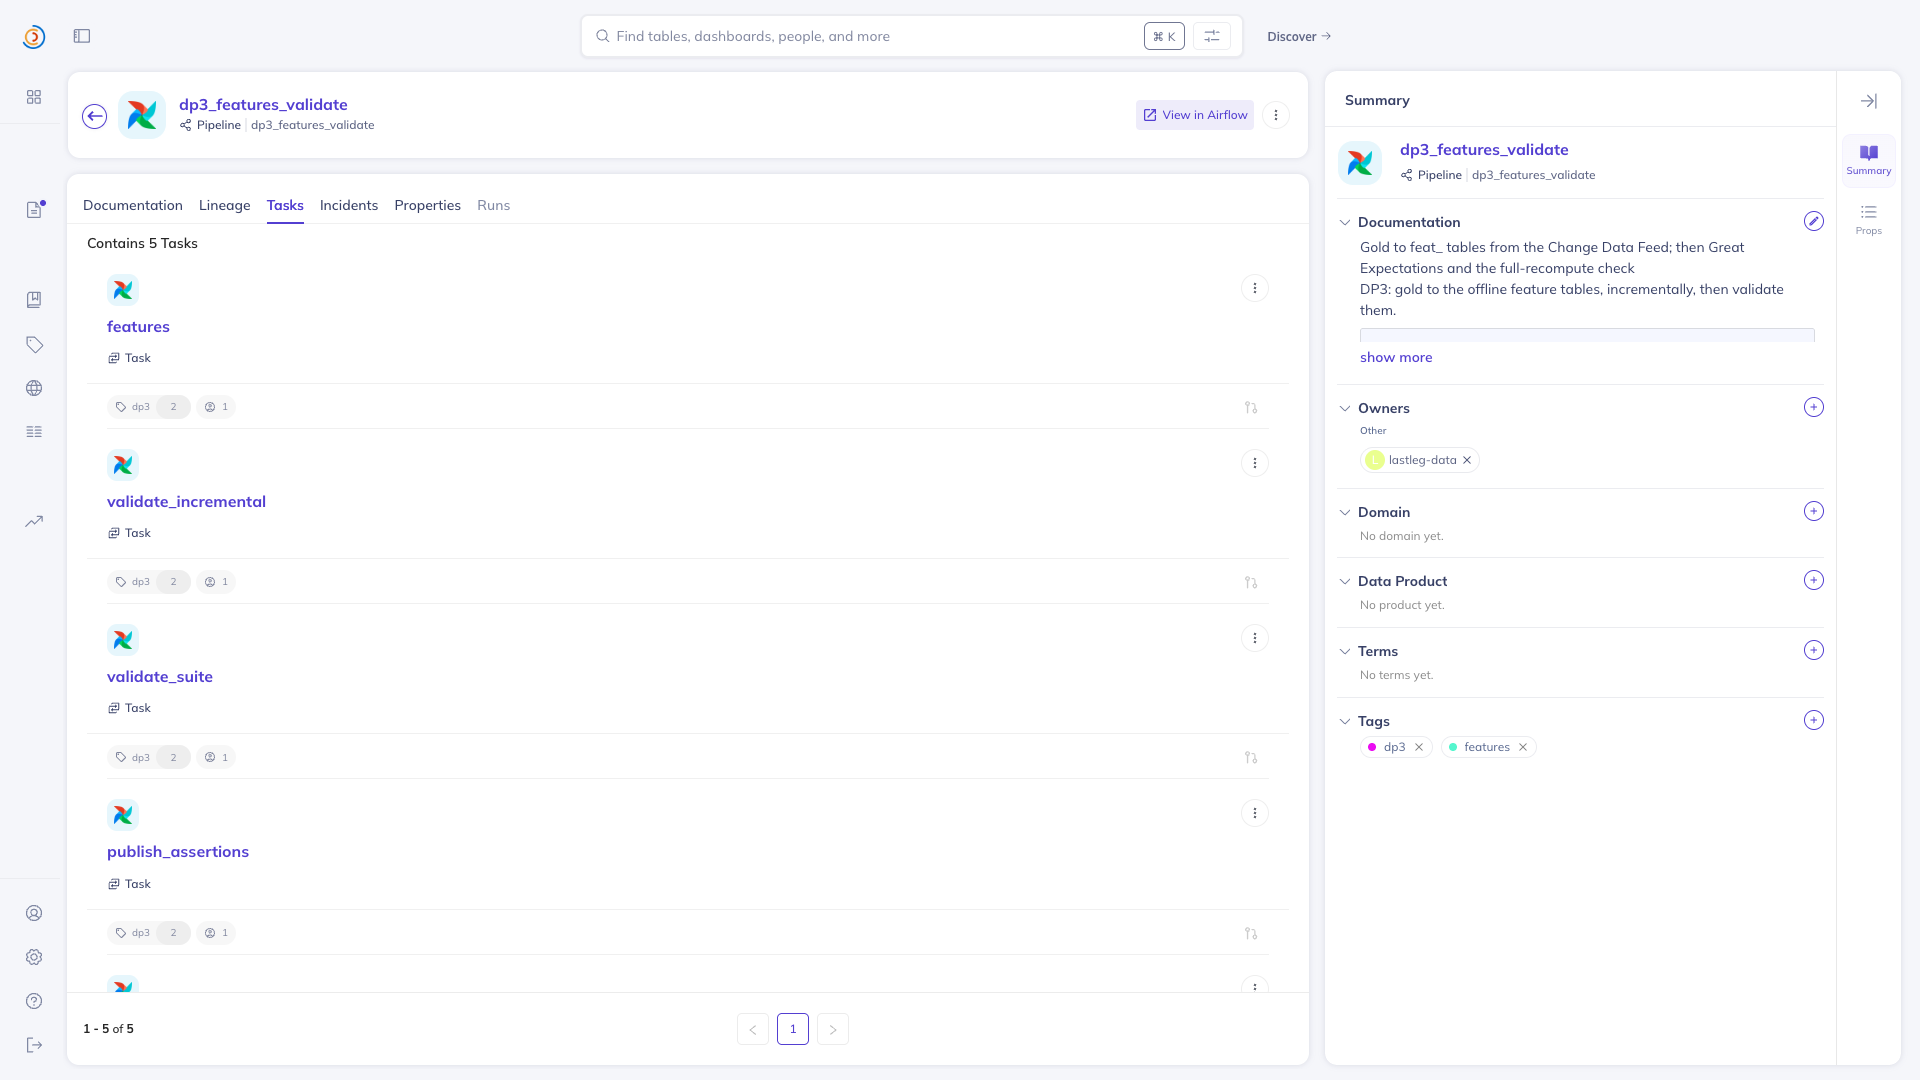
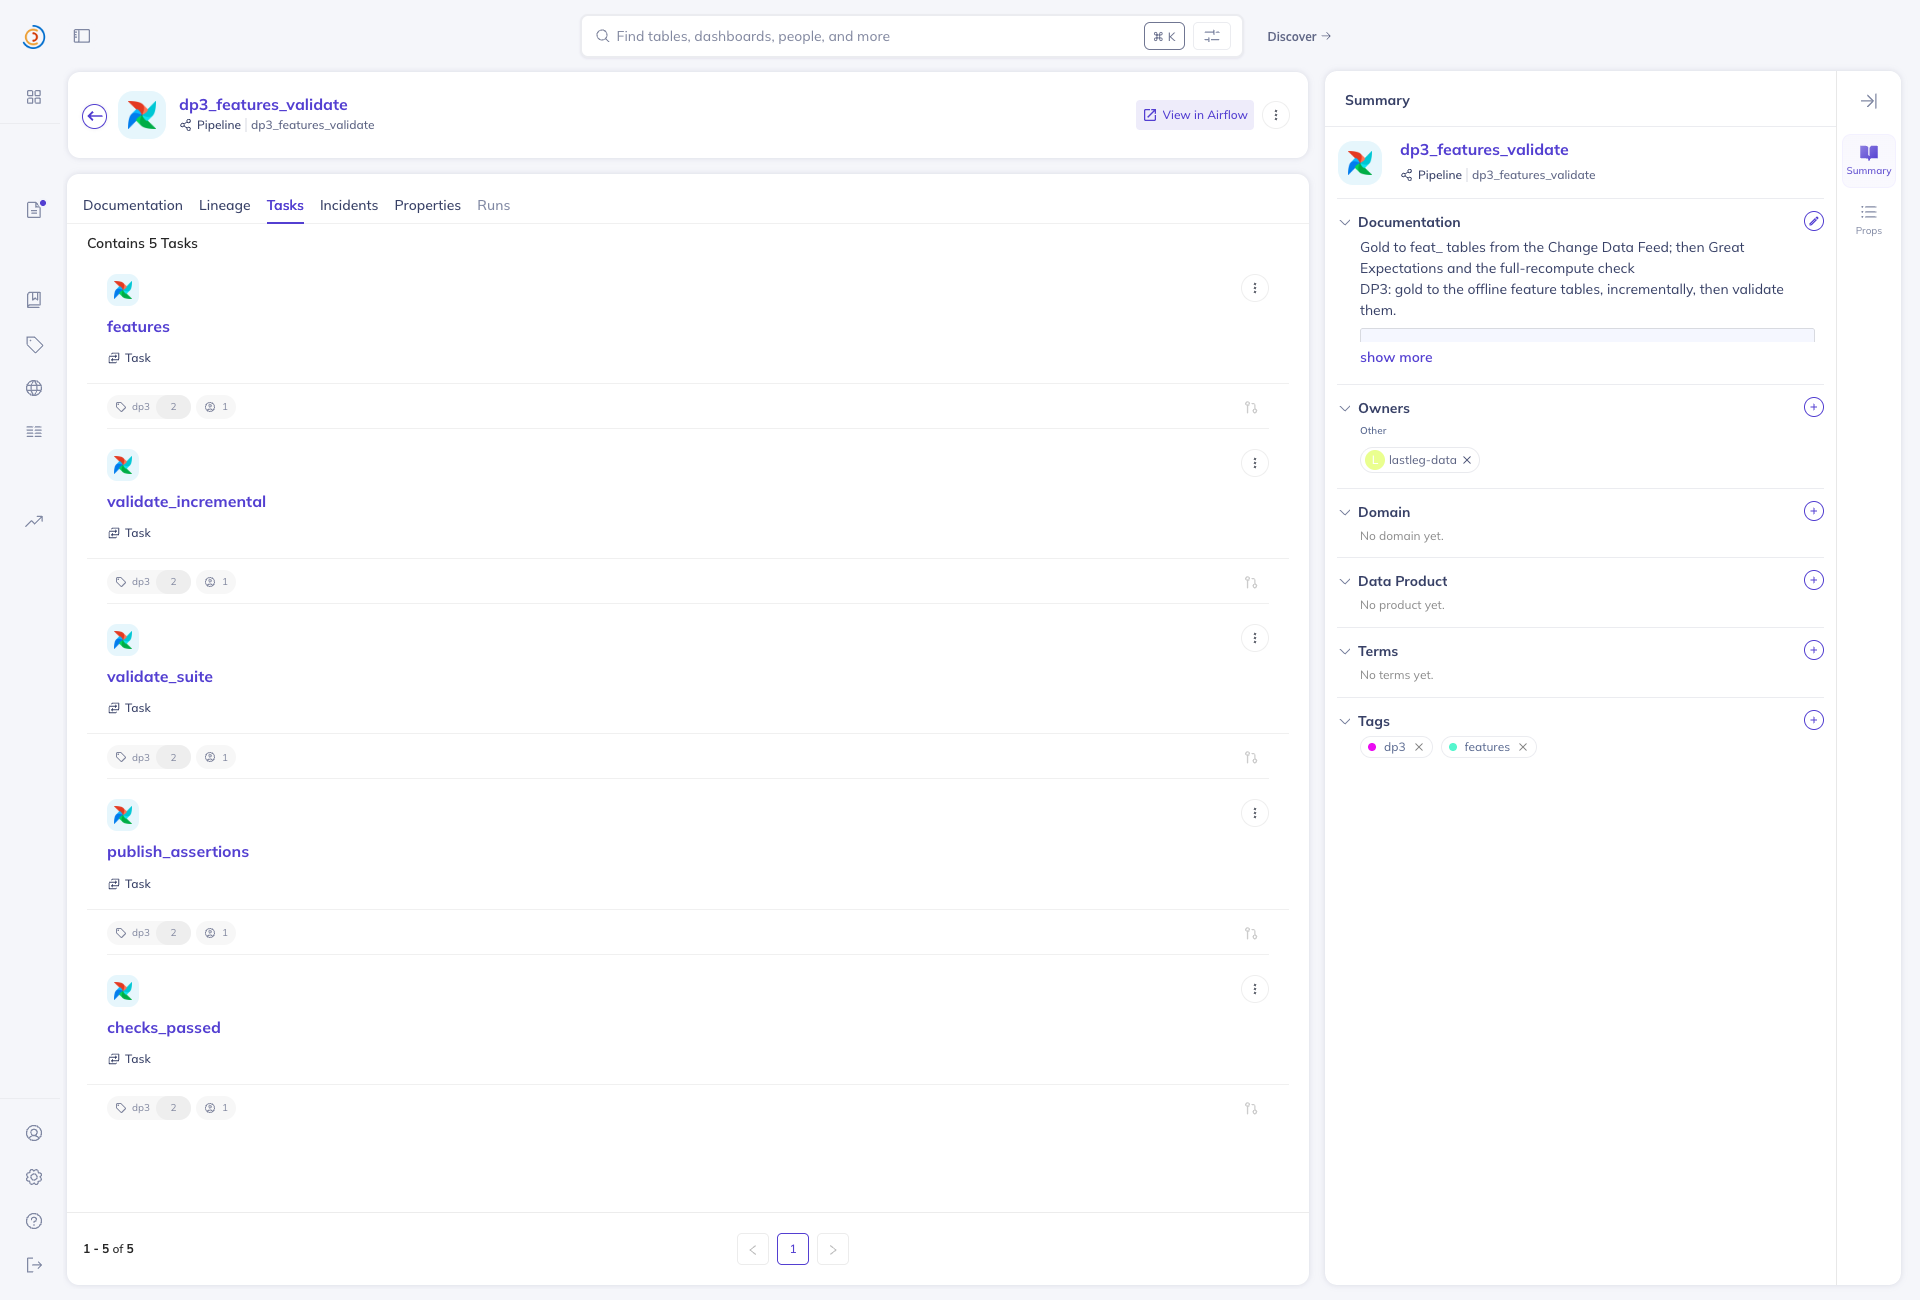
fix(airflow): make checks_passed a task that runs
An EmptyOperator never reaches a worker (the scheduler marks it done), so the DataHub plugin
sent no info for it and DataHub showed only its URN. A one-line BashOperator runs, logs the
result and appears with its name. DP3 ran green again for 2024-11-30 18:00 UTC.

diff --git a/airflow/dags/dp3_features_validate.py b/airflow/dags/dp3_features_validate.py
@@ -12,7 +12,7 @@ publish_assertions succeeds even after a failed suite, so checks_passed carries 
 """
 
 from airflow import DAG
-from airflow.operators.empty import EmptyOperator
+from airflow.operators.bash import BashOperator
 from datahub_assertions import publish_assertions
 from lakehouse_tasks import DEFAULT_ARGS, PERIOD_START, lake, spark_job
 
@@ -37,5 +37,7 @@ with DAG(
         inlets=FEATURES,
     )
     incremental = spark_job("validate_incremental", "check_cdf.py", [], retries=0, inlets=FEATURES + GOLD_IN)
-    features >> [suite, incremental] >> EmptyOperator(task_id="checks_passed")
+    # A task that runs (not an EmptyOperator, which the scheduler skips), so DataHub gets its name too.
+    passed = BashOperator(task_id="checks_passed", bash_command="echo validate_suite and validate_incremental passed")
+    features >> [suite, incremental] >> passed
     suite >> publish_assertions("dp3", "validate_suite")
